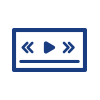
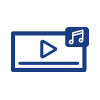
Style: Ajuste de estilos en componente de audio.

Changed region(s): [[0.09, 0.27, 0.9, 0.72], [0.21, 0.39, 0.36, 0.54]]

diff --git a/src/main/webapp/app/constructor/constructor-component-properties/constructor-component-properties.component.html b/src/main/webapp/app/constructor/constructor-component-properties/constructor-component-properties.component.html
@@ -42,10 +42,11 @@
             <img [src]="loadedPdfUrl" alt="" class="cover-upload-img" *ngIf="pdfSrc !== ''">
             <!-- <img [src]="loadedPdfUrl" alt="" class="cover-upload-img" *ngIf="pdfSrc !== ''" (click)="pdfPreview()"> -->
           </div>
-          <div *ngIf="fileFormat === 'sound'">
+          <div *ngIf="fileFormat === 'sound'" class="test-audio">
             <img [src]="defaultSoundUrl" alt="" class="cover-upload-img" *ngIf="soundSrc === ''">
-            <img [src]="loadedSoundUrl" alt="" class="cover-upload-img" *ngIf="soundSrc !== '' && !listenAudio" (click)="loadSound()">
-            <audio [src]="soundSrc" controls #sPlayer *ngIf="soundSrc !== '' && listenAudio" ></audio>
+            <span class="play-icon-test" (click)="loadSound()" *ngIf="soundSrc !== '' && !listenAudio"><i class="icon ni-play"></i></span>
+            <img [src]="loadedSoundUrl" alt="" class="cover-upload-img" *ngIf="soundSrc !== '' && !listenAudio">
+            <audio [src]="soundSrc" controls controlsList="nodownload" #sPlayer *ngIf="soundSrc !== '' && listenAudio" class="audioPlayer" ></audio>
           </div>
           <div [hidden]="!showLoader" class="loader-cp">
             <!-- Doing something -->

diff --git a/src/main/webapp/app/constructor/constructor-component-properties/constructor-component-properties.component.ts b/src/main/webapp/app/constructor/constructor-component-properties/constructor-component-properties.component.ts
@@ -20,8 +20,8 @@ export class ConstructorComponentPropertiesComponent implements OnDestroy {
   defaultVideoUrl = './../../../content/images/video_thumb.png';
   defaultPdfUrl = './../../../content/images/pdf_thumb.png';
   loadedPdfUrl = './../../../content/images/pdf_up_thumb.png';
-  defaultSoundUrl = './../../../content/images/sound_upload.png';
-  loadedSoundUrl = './../../../content/images/sound_uploaded.png';
+  defaultSoundUrl = './../../../content/images/audio_thumb.png';
+  loadedSoundUrl = './../../../content/images/audio_up_thumb.png';
   allowedFileTypes: any = ['image/jpg', 'image/png', 'image/jpeg', 'video/mp4', 'application/pdf', 'audio/mpeg'];
   imageFileTypes: any = ['image/jpg', 'image/png', 'image/jpeg'];
 

diff --git a/src/main/webapp/app/constructor/constructor-component-properties/constructor-component-properties.component.scss b/src/main/webapp/app/constructor/constructor-component-properties/constructor-component-properties.component.scss
@@ -190,3 +190,38 @@
     }
   }
 }
+.test-audio {
+  .play-icon-test {
+    position: absolute;
+    width: 100%;
+    height: 100%;
+    background-color: rgba(16, 18, 51, 0.4);
+    display: flex;
+    justify-content: center;
+    align-items: center;
+    transition: 0.3s;
+    cursor: pointer;
+    z-index: 2;
+    .icon {
+      font-size: 34px;
+      color: white;
+      text-shadow: 4px 2px 8px rgba(26, 61, 130, 0.8);
+      transition: 0.3s;
+      opacity: 0.8;
+      cursor: pointer;
+    }
+    &:hover {
+      background-color: rgba(16, 18, 51, 0.7);
+      .icon {
+        opacity: 1;
+      }
+    }
+  }
+}
+
+// Audio Player
+.audioPlayer {
+  display: block;
+  border-radius: 0px;
+  margin: 0 auto;
+}

diff --git a/src/main/webapp/app/constructor/components/constructor-sound/constructor-sound.component.ts b/src/main/webapp/app/constructor/components/constructor-sound/constructor-sound.component.ts
@@ -13,7 +13,7 @@ import { SoundService } from 'app/services/sound.service';
 })
 export class ConstructorSoundComponent implements OnInit, OnDestroy {
   defaultSoundUrl: SafeUrl = './../../../../content/images/audio_layout.png';
-  loadedSoundUrl: SafeUrl = './../../../../content/images/sound_uploaded.png';
+  loadedSoundUrl: SafeUrl = './../../../../content/images/audio_layout_up.png';
   soundSrc: SafeUrl = '';
   pathUrl = '';
   editing = false;
